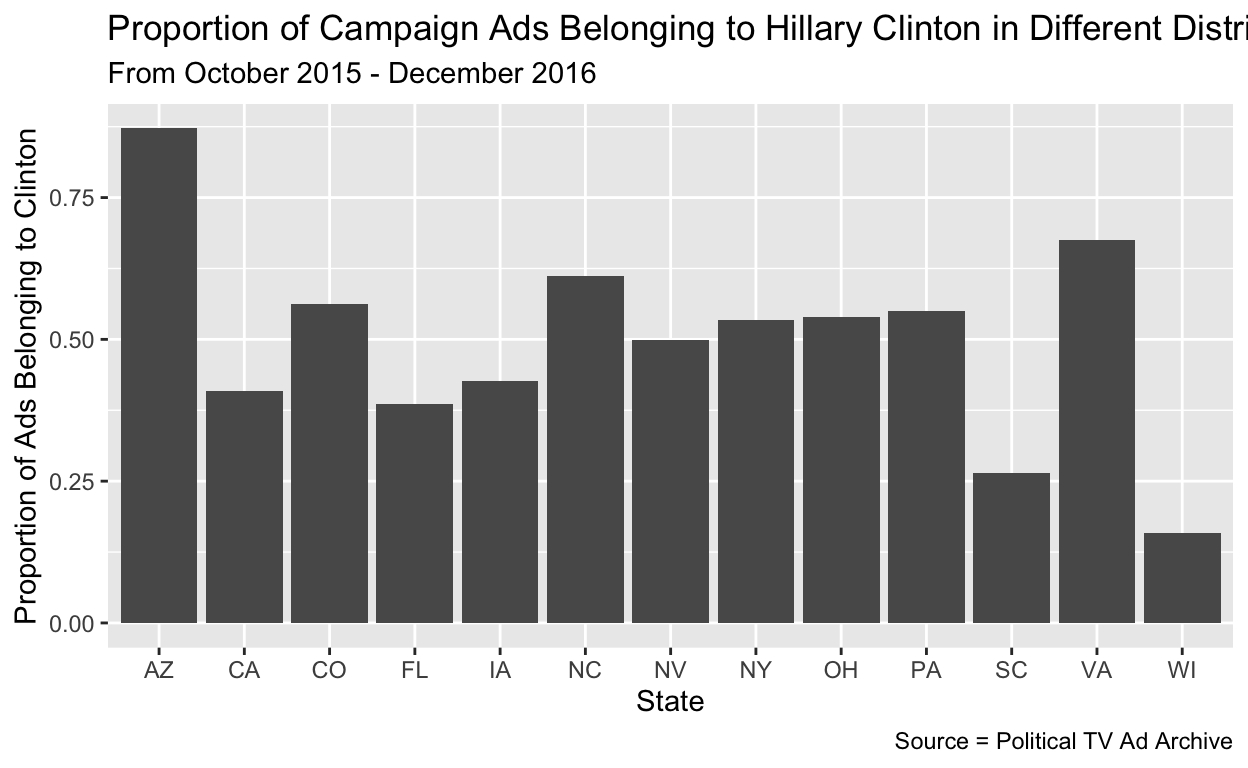
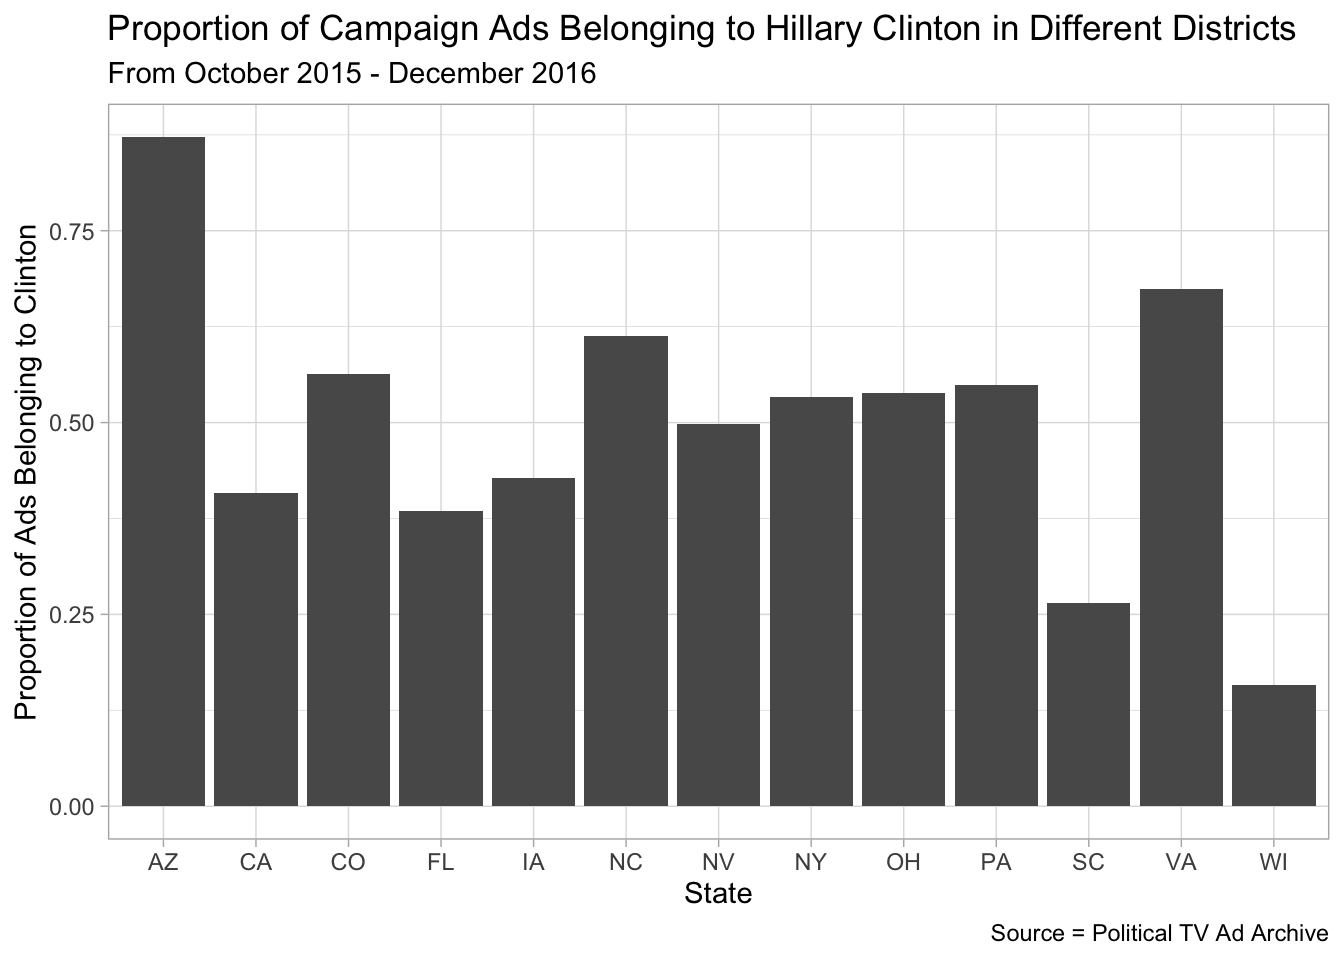
10:20pm

diff --git a/index.html b/index.html
@@ -1572,14 +1572,15 @@ code span.wa { color: #5e5e5e; font-style: italic; } /* Warning */
 <p>The Political TV Ad Archive data set is comprised of 375,350 ads between October 2015 and December 2016. I filtered the ads to only include pro-presidential campaign ads.</p>
 <p>The data set included ads from regions around the United States. Political TV Ad Archive stated that they selected these regions to create a historically, geographically, and politically diverse combination. For simplicity sake, I renamed the regions to their encompassing state (e.g., Tampa-St.Petersburg, Florida ads were renamed “FL”). I filtered out data that included multiple states (e.g., Washington, DC/Hagerstown, MD).</p>
 <p>After filtering, there were 57,800 ads in the data set.</p>
+<p>To assess the proportion of ads that Hillary makes up in the data set, I used str_detect() to create a new binary variable called <code>Hillad</code> for whenever Hillary Clinton appeared as a featured candidate in the advertisement. This is because some advertisements endorsed several candidates.</p>
 <h4 id="election-result-data-set">Election Result Data Set</h4>
 <p>As mentioned earlier, the election results were comprised from the Green Pages. I only included election results from the districts mentioned in the Political TV Ad Archive Data Set (e.g., I did not take all the election results from South Carolina, only from the county that included Columbia).</p>
 <h3 id="plots-summarizing-dependent-variable">Plots Summarizing Dependent Variable</h3>
 <div class="layout-chunk" data-layout="l-body">
-<p><img src="index_files/figure-html5/unnamed-chunk-5-1.png" width="624" /></p>
+<p><img src="index_files/figure-html5/unnamed-chunk-5-1.png" width="672" /></p>
 </div>
 <div class="layout-chunk" data-layout="l-body">
-<p><img src="index_files/figure-html5/unnamed-chunk-6-1.png" width="624" /></p>
+<p><img src="index_files/figure-html5/unnamed-chunk-6-1.png" width="672" /></p>
 </div>
 <h2 id="results">Results</h2>
 <div class="layout-chunk" data-layout="l-body">
@@ -1589,7 +1590,7 @@ code span.wa { color: #5e5e5e; font-style: italic; } /* Warning */
 
 </div>
 <div class="layout-chunk" data-layout="l-body">
-<p><img src="index_files/figure-html5/unnamed-chunk-9-1.png" width="624" /></p>
+<p><img src="index_files/figure-html5/unnamed-chunk-9-1.png" width="672" /></p>
 </div>
 <div class="layout-chunk" data-layout="l-body">
 
@@ -1681,10 +1682,10 @@ R2 Adj.
 </table>
 </div>
 <h3 id="result-summary">RESULT SUMMARY:</h3>
-<p>In the scatter plot, we can see that as Hillary Clinton’s proportion of campaign ads increased, her share of the vote actually decreased. According to the line of best fit model, the intercept is 79.88. That means that when Clinton ads make up 0% of the campaign ads, she has 77.88% of the vote for that district. The slope is -0.405. That is, for every increase in 1 percentage point of the campaign ads that Clinton’s ads make up, her share of the vote decreases by 0.405 percentage points.</p>
+<p>In the scatter plot, we can see that as Hillary Clinton’s proportion of campaign ads increased, her share of the vote actually decreased. According to the line of best fit model, the intercept is 77.796. That means that when Clinton ads make up 0% of the campaign ads, she has 77.79% of the vote for that district. The slope is -0.403. That is, for every increase in 1 percentage point of the campaign ads that Clinton’s ads make up, her share of the vote decreases by 0.403 percentage points.</p>
 <p>Based on this study, we find that increasing candidate’s ads make up of campaign ads are actually correlated with a decrease in share of election votes.</p>
 <p>The survey is not causal. It was an observational study, not a randomized experimental design. Additionally, share of campaign ads and election votes might be related. That is, a district with negative pre-existing notions of Hillary Clinton may be targeted with a greater percentage of ads in order to improve that perception.</p>
-<p>It is also not statistically significant. The p-value for the slope is 0.102. As this p-value is greater than the standard alpha value of 0.05, we fail to reject the null hypothesis that increasing percentage of campaign ads increase percentage of election votes.</p>
+<p>It is also not statistically significant. The p-value for the slope is 0.105. As this p-value is greater than the standard alpha value of 0.05, we fail to reject the null hypothesis that increasing percentage of campaign ads increase percentage of election votes.</p>
 <h2 id="conclusion">Conclusion</h2>
 <p>My original hypothesis that increasing share of election ads would increase share of election votes was incorrect. I do not find support for my hypothesis.</p>
 <h3 id="limitations-improvement">LIMITATIONS / IMPROVEMENT:</h3>
